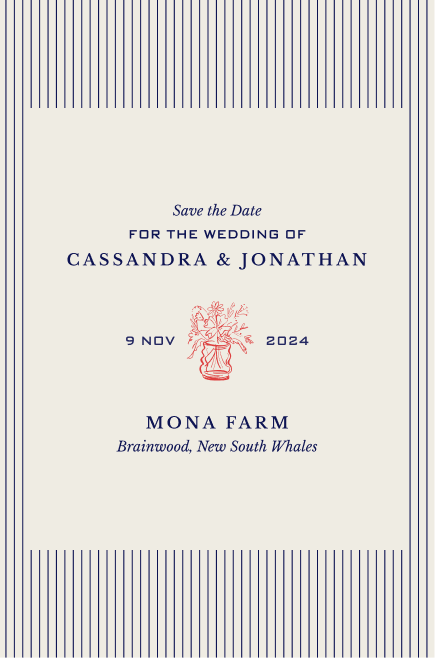
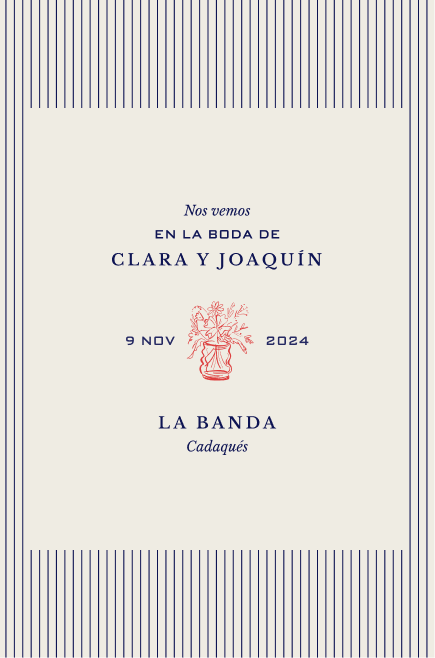
Vega y portada de Ribera en español: imágenes nuevas del listado y del carrusel
Claude-Session: https://claude.ai/code/session_01C5v76WbzWToXMSbSKUH8eA

Changed region(s): [[0.1494, 0.304, 0.8368, 0.4255], [0.269, 0.6079, 0.7471, 0.6991]]

diff --git a/src/lib/site-dict.ts b/src/lib/site-dict.ts
@@ -352,7 +352,7 @@ const es: SiteDict = {
         tags: ["Minimalista", "A trazo"],
       },
       {
-        image: "/catalog/proximo-diseno-2.jpg",
+        image: "/catalog/vega-es.webp",
         title: "Vega",
         tagline: "Art nouveau, en burdeos y rosa",
         summary: "Muy pronto podréis verlo aquí y hacerlo vuestro.",
@@ -682,7 +682,7 @@ const en: SiteDict = {
         tags: ["Minimal", "Line-drawn"],
       },
       {
-        image: "/catalog/proximo-diseno-2.jpg",
+        image: "/catalog/vega-en.webp",
         title: "Vega",
         tagline: "Art nouveau, in burgundy and pink",
         summary: "You'll soon be able to see it here and make it yours.",

diff --git a/src/components/site/HeroGrid.tsx b/src/components/site/HeroGrid.tsx
@@ -21,7 +21,6 @@ type Shot = {
 // and they'll flow into the columns automatically.
 const shots: Shot[] = [
   {
-    // TODO: the Spanish cover still has to be supplied (this one is in English).
     src: { es: "/hero/ribera-es.png", en: "/hero/ribera-en.png" },
     template: "Ribera",
     slug: "ribera",
@@ -52,7 +51,7 @@ const shots: Shot[] = [
     },
   },
   {
-    src: { es: "/hero/proximo-diseno-2.jpg", en: "/hero/proximo-diseno-2.jpg" },
+    src: { es: "/hero/vega-es.webp", en: "/hero/vega-en.webp" },
     template: "Vega",
     slug: "vega",
     label: "Portada",
